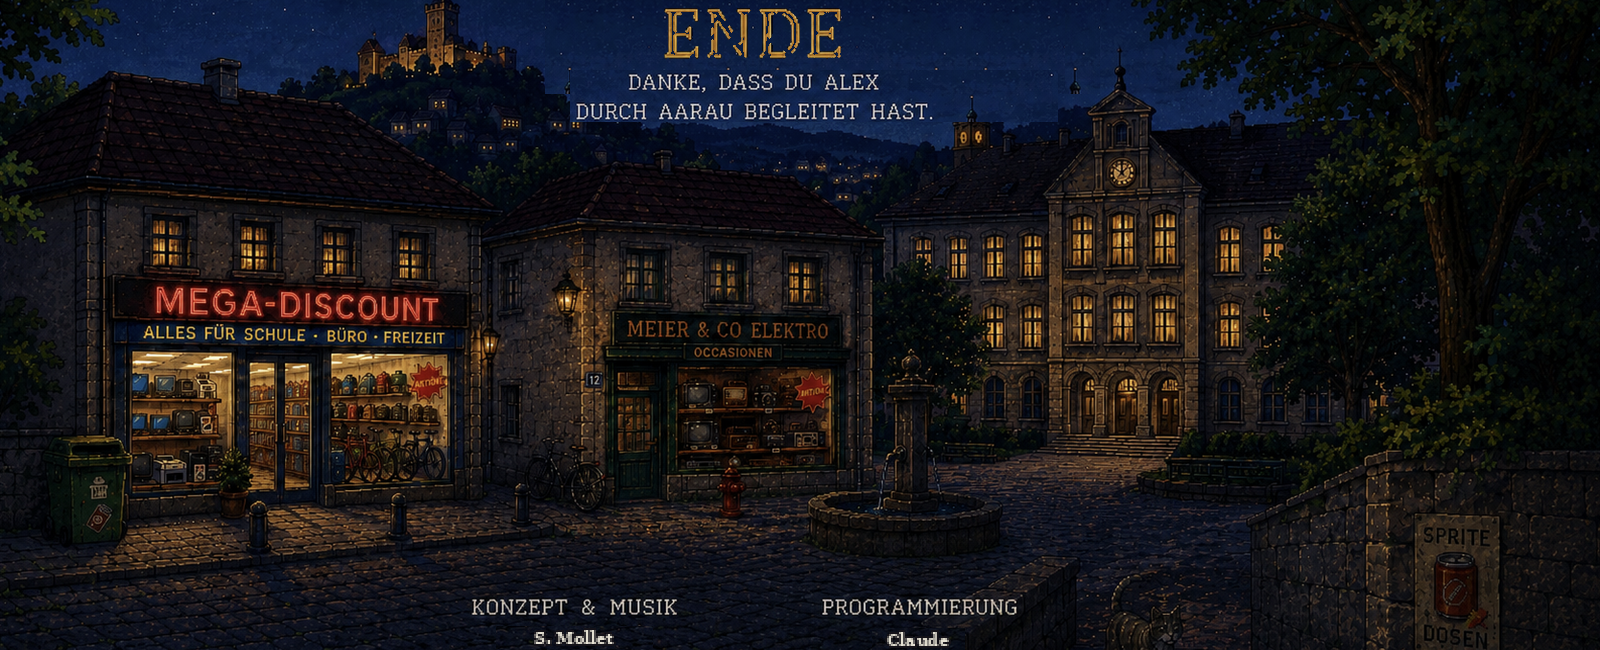
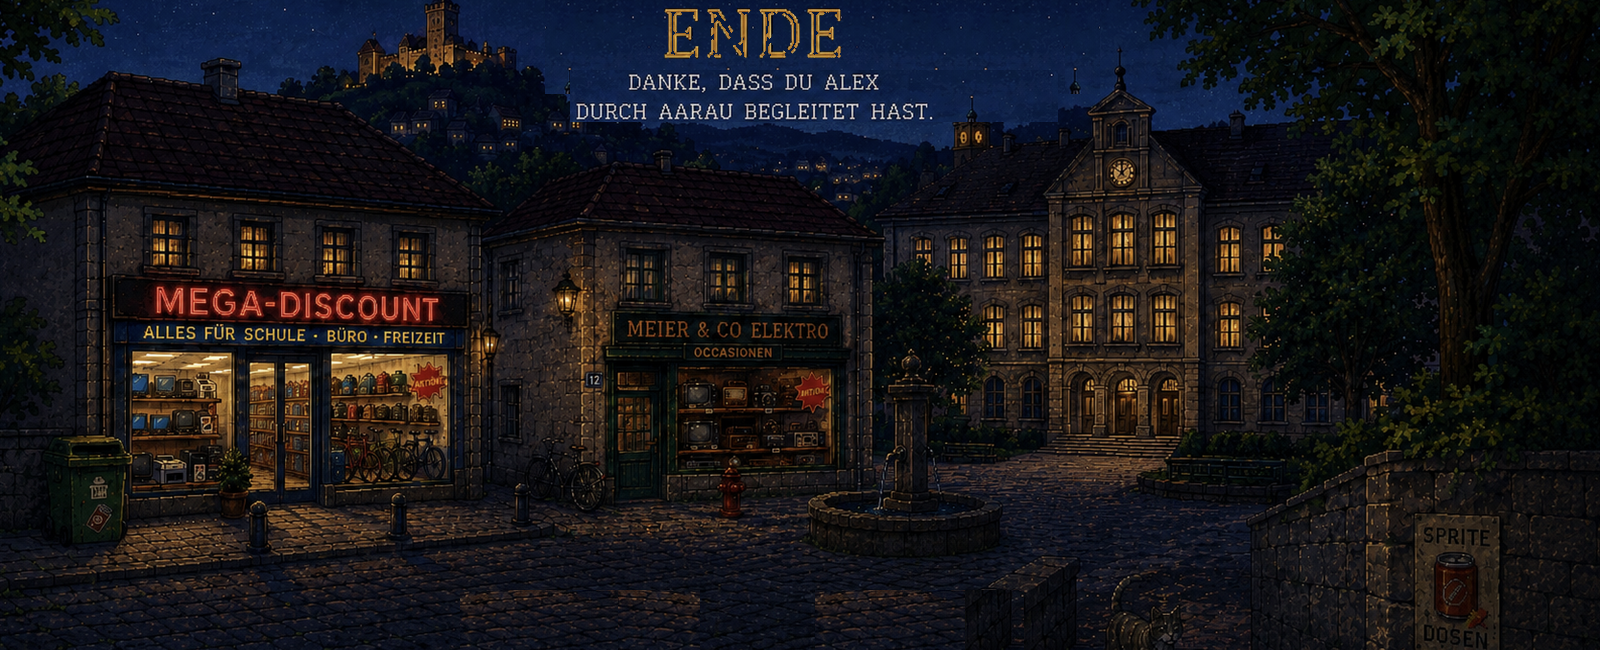
v46: nur Credits rollen, Bild und ENDE bleiben, langsamer Schlussfade

Changed region(s): [[0.2812, 0.8923, 0.4375, 1.0], [0.5, 0.8923, 0.6562, 1.0]]

diff --git a/kaufvertrag_demo.html b/kaufvertrag_demo.html
@@ -279,7 +279,10 @@
   45%{ transform:rotate(-5deg); } 60%{ transform:rotate(5deg); } 75%{ transform:rotate(0deg); }
 }
 #sp-rechner{ transform-box:fill-box; transform-origin:center; cursor:pointer; }
-.szene.ende-roll svg{ transition: transform 16s linear, opacity 16s ease-in; transform: translateY(-104%); opacity: 0; }
+#sp-credits{ transition: transform 15s linear; }
+.szene.ende-roll #sp-credits{ transform: translateY(-320px); }
+.endeFade{ position:absolute; inset:0; background:#000; opacity:0; transition:opacity 14s linear; pointer-events:none; z-index:40; }
+.endeFade.an{ opacity:1; }
 .startTor{ position:absolute; inset:0; z-index:70; background:#000; display:flex; flex-direction:column;
   align-items:center; justify-content:center; gap:1.1rem; text-align:center; padding:20px; }
 .startTor h2{ color:#FFFF55; font-size:1.6rem; letter-spacing:.35em; margin:0; }
@@ -936,7 +939,7 @@ ende: pxSzene('#000010', (R,D)=>{
    Liegen im Repo PNGs mit diesen Namen, werden sie automatisch
    statt der Pixel-Programme geladen. Fehlen sie: Pixel-Fallback.
    ===================================================== */
-const BILD_VERSION = '45';
+const BILD_VERSION = '46';
 function vurl(u){ return u + '?v=' + BILD_VERSION; }
 const SZENEN_BILDER = {
   titel:'kaufvertrag_titel.png',
@@ -1003,7 +1006,7 @@ function bildSzene(key){
   return '<svg viewBox="0 0 640 260" xmlns="http://www.w3.org/2000/svg" preserveAspectRatio="xMidYMid slice">'+
     '<image href="'+vurl(SZENEN_BILDER[key])+'" x="0" y="0" width="640" height="260" '+
     'preserveAspectRatio="xMidYMid slice"/>'+
-    spriteSVG(key)+hotRects(key)+rechnerSVG(key)+schildSVG(key)+'</svg>';
+    spriteSVG(key)+creditsSVG(key)+hotRects(key)+rechnerSVG(key)+schildSVG(key)+'</svg>';
 }
 if(typeof Image !== 'undefined'){
   Object.entries(SZENEN_BILDER).forEach(([key,url])=>{
@@ -2310,6 +2313,11 @@ szeneEl.addEventListener('mouseout', (e)=>{
   const t = e.target;
   if(t && t.id === 'sp-rechner'){ rechnerPose(t, RECHNER_LIEGEND); if(rechner.zappel) t.classList.add('rechner-zappel'); }
 });
+function creditsSVG(key){
+  if(key !== 'ende') return '';
+  return '<image id="sp-credits" href="'+vurl('kaufvertrag_credits.png')+
+         '" x="172" y="235.2" width="256" height="24.8"/>';
+}
 function schildSVG(key){
   if(key !== 'titel') return '';
   return '<image id="sp-schild2" href="'+vurl('kaufvertrag_schild2.png')+
@@ -2618,7 +2626,9 @@ function zeige(id){
   spriteStopp();
   stoppeIdle();
   if(endeRollTimer){ clearTimeout(endeRollTimer); endeRollTimer = null; }
+  if(endeFadeTimer){ clearTimeout(endeFadeTimer); endeFadeTimer = null; }
   szeneEl.classList.remove('ende-roll');
+  try{ szeneEl.querySelectorAll('.endeFade').forEach(f=>f.remove()); }catch(e){}
   aktuelleSzeneId = k.szene;
   rechnerStart(k.rechner);
   szenenAudio(k.szene);
@@ -2822,6 +2832,7 @@ function baueWeiche(k){
 }
 
 let endeRollTimer = null;
+let endeFadeTimer = null;
 function baueEnde(){
   if(zustand.weg) zustand.ergebnisse[zustand.weg]=zustand.rq;
   const gespielt=Object.keys(zustand.ergebnisse).length;
@@ -2863,10 +2874,18 @@ function baueEnde(){
   b2.addEventListener('click', neustart);
   box.appendChild(b2);
   dialogEl.appendChild(box);
-  /* Nach 10 s rollen Dank und Credits nach oben und alles faded ins Schwarz */
+  /* Nach 10 s rollen NUR die Credits nach oben; sind sie weg, faded alles ganz langsam ins Schwarz */
   if(!reduzierteBewegung()){
     endeRollTimer = setTimeout(()=>{
-      if(aktuelleSzeneId === 'ende') szeneEl.classList.add('ende-roll');
+      if(aktuelleSzeneId !== 'ende') return;
+      szeneEl.classList.add('ende-roll');
+      endeFadeTimer = setTimeout(()=>{
+        if(aktuelleSzeneId !== 'ende') return;
+        const f = document.createElement('div');
+        f.className = 'endeFade';
+        szeneEl.appendChild(f);
+        requestAnimationFrame(()=>{ requestAnimationFrame(()=>{ f.classList.add('an'); }); });
+      }, 15500);
     }, 10000);
   }
 }

diff --git a/kaufvertrag_fd642d69.html b/kaufvertrag_fd642d69.html
@@ -280,7 +280,10 @@
   45%{ transform:rotate(-5deg); } 60%{ transform:rotate(5deg); } 75%{ transform:rotate(0deg); }
 }
 #sp-rechner{ transform-box:fill-box; transform-origin:center; cursor:pointer; }
-.szene.ende-roll svg{ transition: transform 16s linear, opacity 16s ease-in; transform: translateY(-104%); opacity: 0; }
+#sp-credits{ transition: transform 15s linear; }
+.szene.ende-roll #sp-credits{ transform: translateY(-320px); }
+.endeFade{ position:absolute; inset:0; background:#000; opacity:0; transition:opacity 14s linear; pointer-events:none; z-index:40; }
+.endeFade.an{ opacity:1; }
 .startTor{ position:absolute; inset:0; z-index:70; background:#000; display:flex; flex-direction:column;
   align-items:center; justify-content:center; gap:1.1rem; text-align:center; padding:20px; }
 .startTor h2{ color:#FFFF55; font-size:1.6rem; letter-spacing:.35em; margin:0; }
@@ -937,7 +940,7 @@ ende: pxSzene('#000010', (R,D)=>{
    Liegen im Repo PNGs mit diesen Namen, werden sie automatisch
    statt der Pixel-Programme geladen. Fehlen sie: Pixel-Fallback.
    ===================================================== */
-const BILD_VERSION = '45';
+const BILD_VERSION = '46';
 function vurl(u){ return u + '?v=' + BILD_VERSION; }
 const SZENEN_BILDER = {
   titel:'kaufvertrag_titel.png',
@@ -1004,7 +1007,7 @@ function bildSzene(key){
   return '<svg viewBox="0 0 640 260" xmlns="http://www.w3.org/2000/svg" preserveAspectRatio="xMidYMid slice">'+
     '<image href="'+vurl(SZENEN_BILDER[key])+'" x="0" y="0" width="640" height="260" '+
     'preserveAspectRatio="xMidYMid slice"/>'+
-    spriteSVG(key)+hotRects(key)+rechnerSVG(key)+schildSVG(key)+'</svg>';
+    spriteSVG(key)+creditsSVG(key)+hotRects(key)+rechnerSVG(key)+schildSVG(key)+'</svg>';
 }
 if(typeof Image !== 'undefined'){
   Object.entries(SZENEN_BILDER).forEach(([key,url])=>{
@@ -2606,6 +2609,11 @@ szeneEl.addEventListener('mouseout', (e)=>{
   const t = e.target;
   if(t && t.id === 'sp-rechner'){ rechnerPose(t, RECHNER_LIEGEND); if(rechner.zappel) t.classList.add('rechner-zappel'); }
 });
+function creditsSVG(key){
+  if(key !== 'ende') return '';
+  return '<image id="sp-credits" href="'+vurl('kaufvertrag_credits.png')+
+         '" x="172" y="235.2" width="256" height="24.8"/>';
+}
 function schildSVG(key){
   if(key !== 'titel') return '';
   return '<image id="sp-schild2" href="'+vurl('kaufvertrag_schild2.png')+
@@ -2914,7 +2922,9 @@ function zeige(id){
   spriteStopp();
   stoppeIdle();
   if(endeRollTimer){ clearTimeout(endeRollTimer); endeRollTimer = null; }
+  if(endeFadeTimer){ clearTimeout(endeFadeTimer); endeFadeTimer = null; }
   szeneEl.classList.remove('ende-roll');
+  try{ szeneEl.querySelectorAll('.endeFade').forEach(f=>f.remove()); }catch(e){}
   aktuelleSzeneId = k.szene;
   rechnerStart(k.rechner);
   szenenAudio(k.szene);
@@ -3117,6 +3127,7 @@ function baueWeiche(k){
 }
 
 let endeRollTimer = null;
+let endeFadeTimer = null;
 function baueEnde(){
   if(zustand.weg) zustand.ergebnisse[zustand.weg]=zustand.rq;
   const gespielt=Object.keys(zustand.ergebnisse).length;
@@ -3158,10 +3169,18 @@ function baueEnde(){
   b2.addEventListener('click', neustart);
   box.appendChild(b2);
   dialogEl.appendChild(box);
-  /* Nach 10 s rollen Dank und Credits nach oben und alles faded ins Schwarz */
+  /* Nach 10 s rollen NUR die Credits nach oben; sind sie weg, faded alles ganz langsam ins Schwarz */
   if(!reduzierteBewegung()){
     endeRollTimer = setTimeout(()=>{
-      if(aktuelleSzeneId === 'ende') szeneEl.classList.add('ende-roll');
+      if(aktuelleSzeneId !== 'ende') return;
+      szeneEl.classList.add('ende-roll');
+      endeFadeTimer = setTimeout(()=>{
+        if(aktuelleSzeneId !== 'ende') return;
+        const f = document.createElement('div');
+        f.className = 'endeFade';
+        szeneEl.appendChild(f);
+        requestAnimationFrame(()=>{ requestAnimationFrame(()=>{ f.classList.add('an'); }); });
+      }, 15500);
     }, 10000);
   }
 }
